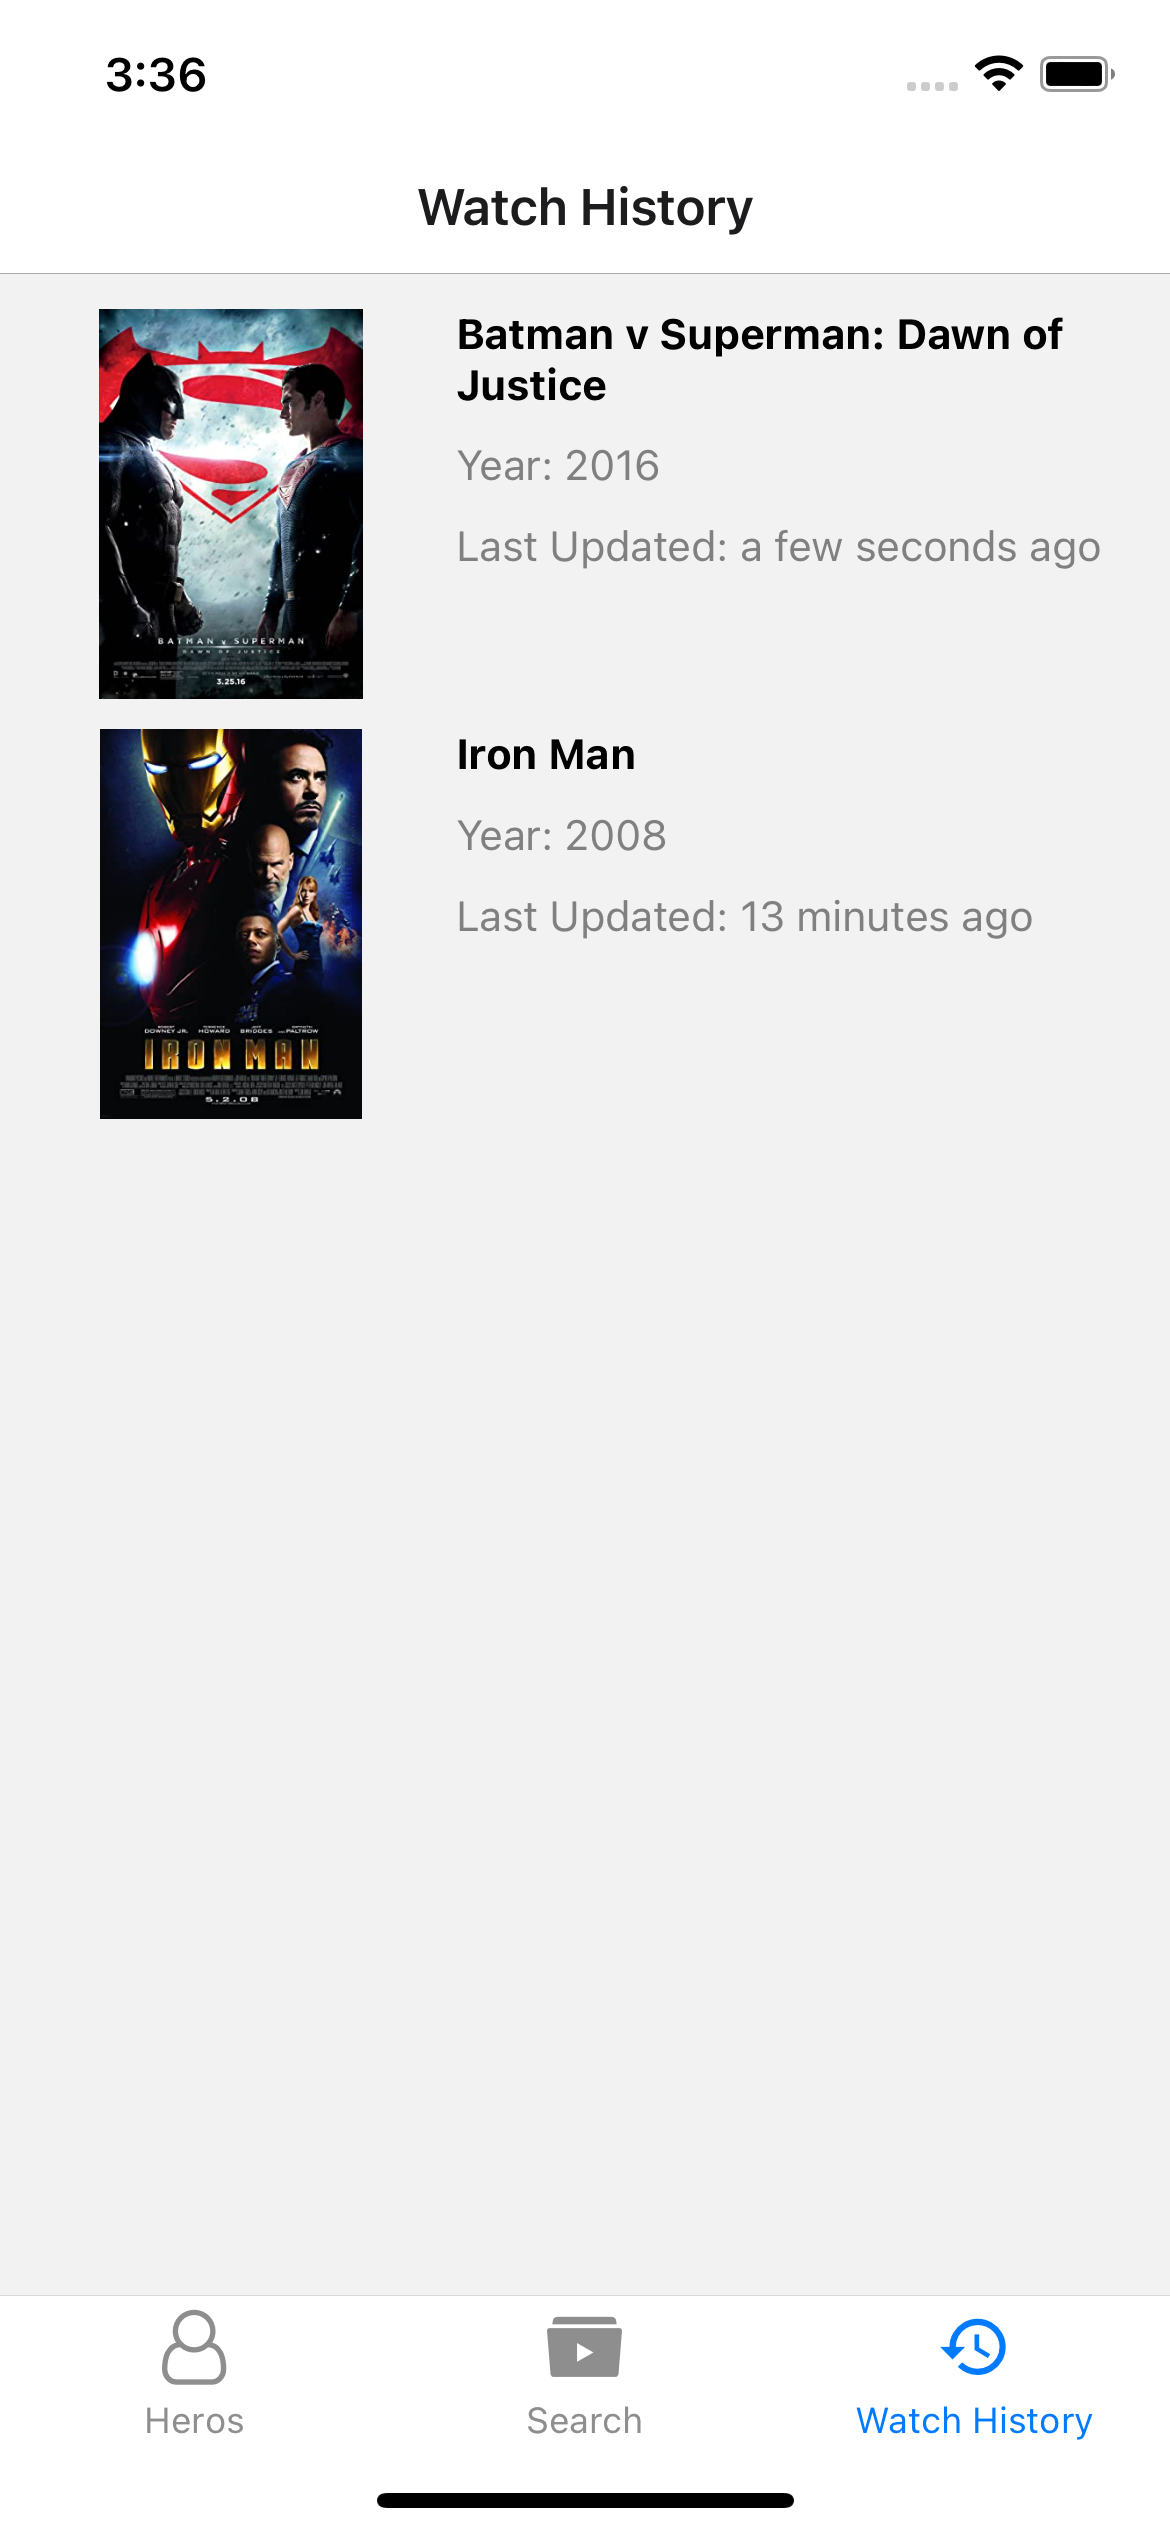
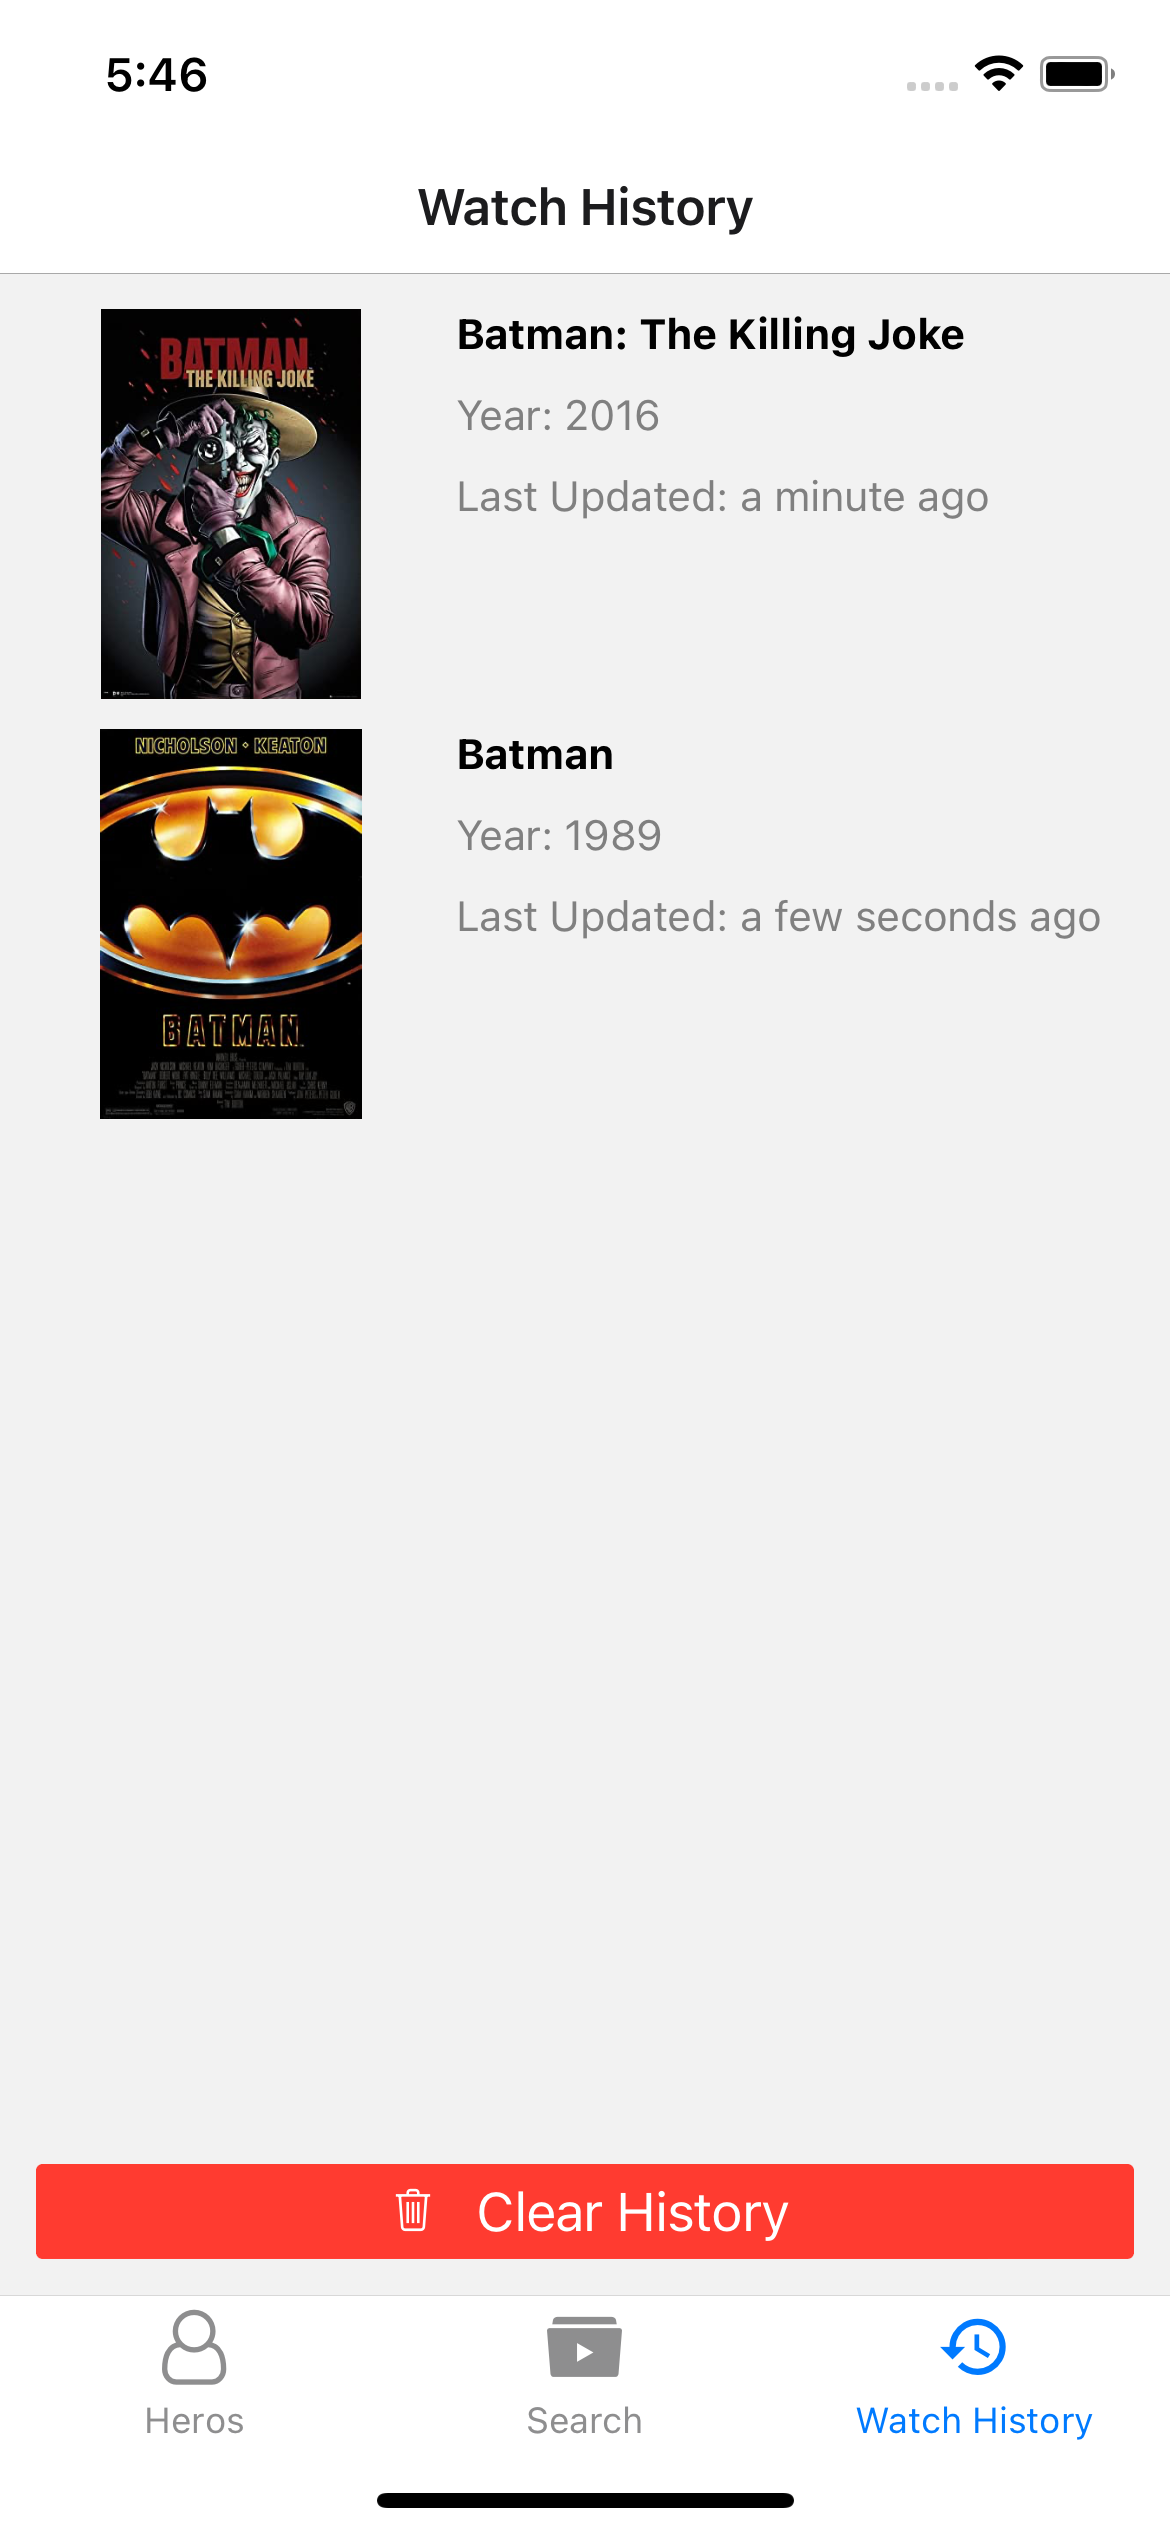
Final touches

diff --git a/src/Screens/history/HistoryScreen.tsx b/src/Screens/history/HistoryScreen.tsx
@@ -1,18 +1,20 @@
-import { FlatList, StyleSheet, Text, TouchableOpacity, View } from 'react-native'
+import { Alert, FlatList, StyleSheet, Text, TouchableOpacity, View } from 'react-native'
 import React, { useEffect, useState } from 'react'
 import { Movie } from '../../models/movies.models';
-import { ApiCall, AppConstants, getSavedItem } from '../../helpers';
+import { AppConstants, clearSavedData, getSavedItem } from '../../helpers';
 import FastImage from 'react-native-fast-image';
 import moment from 'moment';
-import { useNavigation } from '@react-navigation/native';
+import { DefaultTheme, useFocusEffect, useNavigation } from '@react-navigation/native';
 import { RouteNames } from '../../Navigations/Routes';
+import { Button } from '@rneui/themed';
+import EvilIcons from 'react-native-vector-icons/EvilIcons';
 
 export default function HistoryScreen() {
 
   const [movieHistory, setMovieHistory] = useState<Movie[]>([]);
   const navigation = useNavigation();
 
-  useEffect(() => {
+  useFocusEffect(() => {
     (async () => {
       try {
         const rawHistory: string | null = await getSavedItem(AppConstants.WATCH_HISTORY)
@@ -27,7 +29,7 @@ export default function HistoryScreen() {
         console.log('Error', error);
       }
     })();
-  }, []);
+  });
 
   const renderMovieCard = (movie: Movie) => {
     return (
@@ -66,6 +68,26 @@ export default function HistoryScreen() {
         ListEmptyComponent={showEmptyList}
         ItemSeparatorComponent={() => <View style={styles.itemSeparator} />}
       />
+      {movieHistory.length ? (<View>
+        <Button
+          title="Clear History"
+          size='sm'
+          icon={<EvilIcons name='trash' size={22} color="white" style={{ marginRight: 10 }} />}
+          color={DefaultTheme.colors.notification}
+          onPress={() => {
+            Alert.alert('Warning', 'Do you want to clear watch history?', [
+              { text: 'No', onPress: () => { }, style: 'cancel' },
+              {
+                text: 'Yes', onPress: async () => {
+                  await clearSavedData();
+                  setMovieHistory([]);
+                  Alert.alert('Info', 'Watch history cleared.');
+                }, style: 'destructive'
+              },
+            ]);
+          }}
+        />
+      </View>) : null}
     </View>
   )
 }

diff --git a/src/Screens/heros/HeroDetails.tsx b/src/Screens/heros/HeroDetails.tsx
@@ -9,6 +9,7 @@ import { RouteNames } from '../../Navigations/Routes';
 import { ApiCall, randomNumberFromInterval } from '../../helpers';
 import { AxiosResponse } from 'axios';
 import { Movie, Search, SearchError, SearchResults } from '../../models/movies.models';
+import MaterialIcons from 'react-native-vector-icons/MaterialIcons';
 
 export default function HeroDetails(props: any) {
   const hero = props.route.params?.hero as Hero;
@@ -167,21 +168,22 @@ export default function HeroDetails(props: any) {
             <View style={{ backgroundColor: DefaultTheme.colors.primary, padding: 10 }}>
               <Text style={{ fontSize: 16, color: 'white', fontWeight: 'bold' }}>WHAT TO WATCH? 🤔</Text>
             </View>
-            <View style={{ padding: 10, flexDirection: 'row', flex: 1, justifyContent: 'space-between' }}>
+            <View style={{ padding: 10, flexDirection: 'row', flex: 1, justifyContent: 'center' }}>
               <Button
-                title="Random"
+                title="Random Movie"
                 size="sm"
-                style={{ width: dimensions.width / 2.5 }}
+                icon={<MaterialIcons name='movie' size={22} color="white" style={{ marginRight: 10 }} />}
+                style={{ width: dimensions.width / 2 }}
                 color={DefaultTheme.colors.notification}
                 onPress={showRandomMovie}
               />
-              <Button
+              {/* <Button
                 title="Show all"
                 size="sm"
                 style={{ width: dimensions.width / 2.5 }}
                 color={DefaultTheme.colors.text}
                 onPress={showAllMovies}
-              />
+              /> */}
             </View>
           </View>
         </View>

diff --git a/src/helpers/functions.ts b/src/helpers/functions.ts
@@ -18,10 +18,14 @@ export function randomNumberFromInterval(min: number, max: number): number {
   return Math.floor(Math.random() * (max - min + 1) + min)
 }
 
-export async function getSavedItem(key: string) {
+export async function getSavedItem(key: string): Promise<string | null> {
   return await AsyncStorage.getItem(key);
 }
 
-export async function setSavedItem(key: string, value: string) {
+export async function setSavedItem(key: string, value: string): Promise<void> {
   return await AsyncStorage.setItem(key, value);
+}
+
+export async function clearSavedData(): Promise<void> {
+  return await AsyncStorage.clear();
 }
